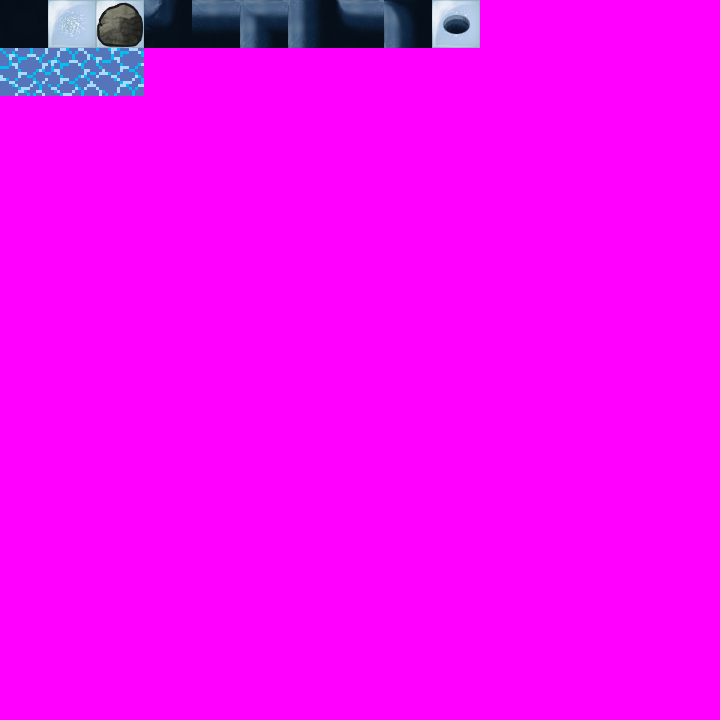
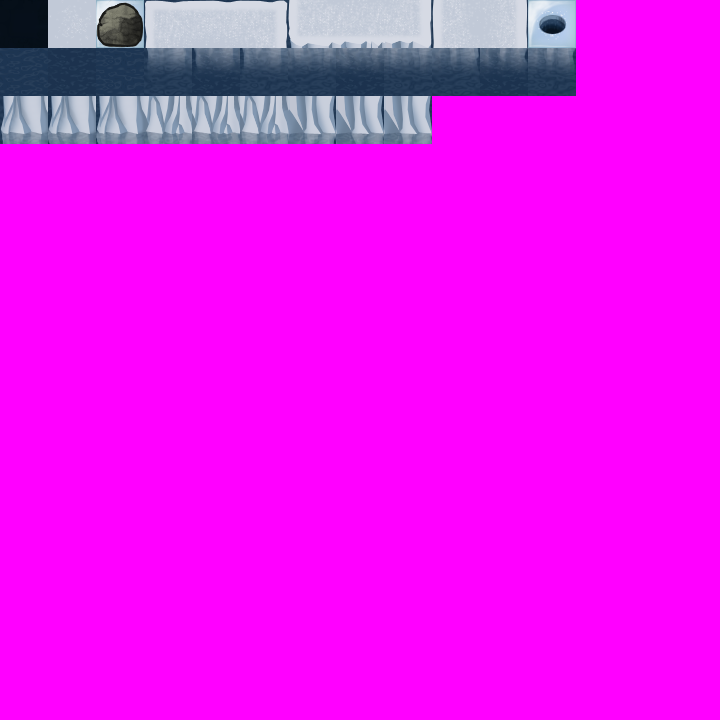
I stuck in the new art that Maxim created.  WOOO!  It looks pretty damn good!
git-svn-id: https://noobtoob-kickle.googlecode.com/svn/trunk@270 5e24083e-1465-11df-9d2a-2365f6df44e6

Changed region(s): [[0.0, 0.0, 0.825, 0.2139]]

diff --git a/Kickle/Kickle/Source Files/main.cpp b/Kickle/Kickle/Source Files/main.cpp
@@ -24,7 +24,6 @@ int main() {
 
 	Game->Run();
 	
-	//std::cin.get();
 
 	return 0;
 }
